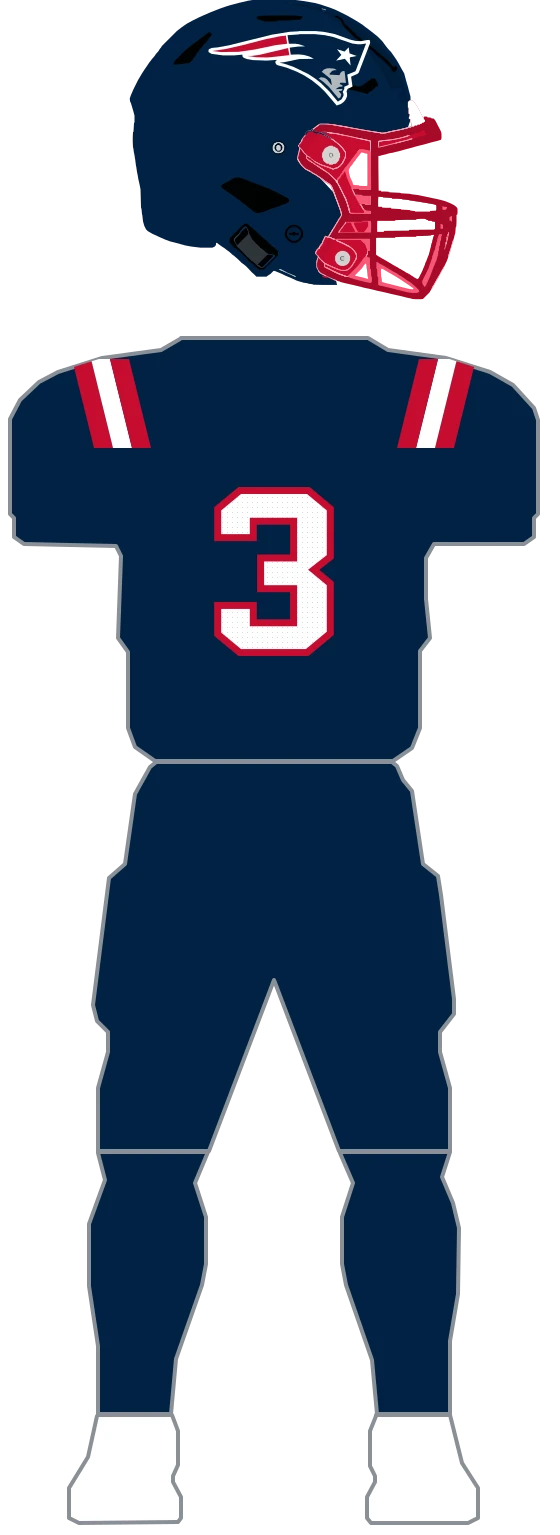
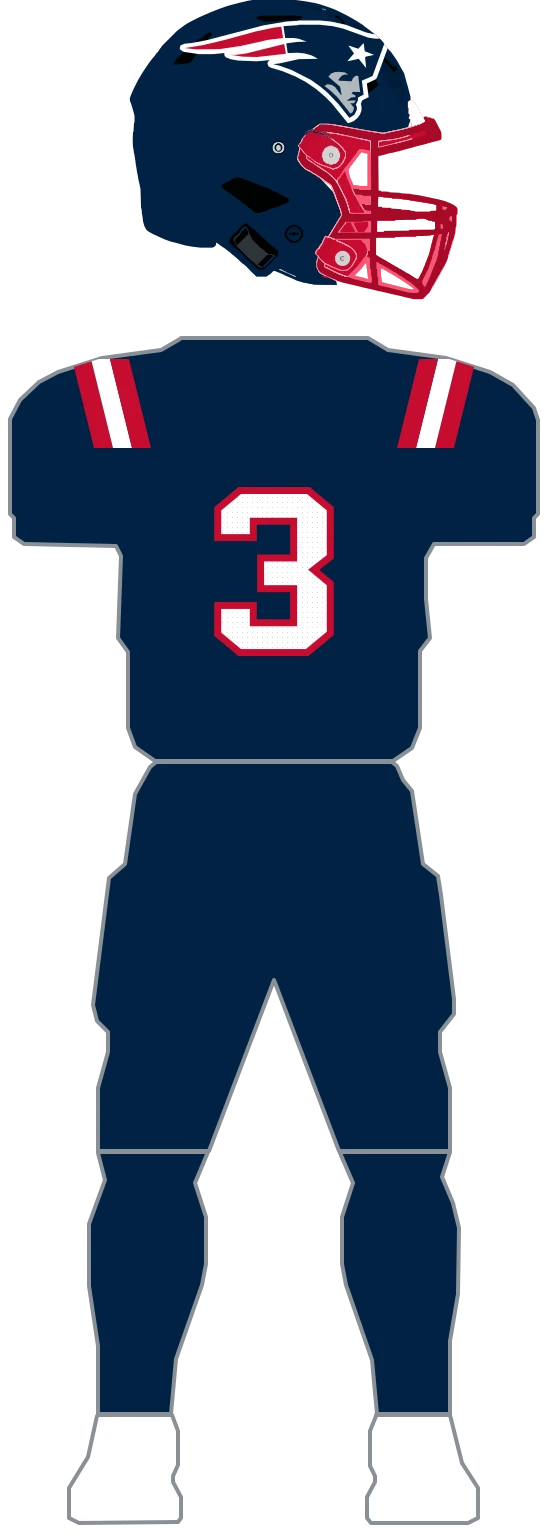
fix(uniforms): correct Patriots helmet placement

Changed region(s): [[0.3339, 0.0, 0.6982, 0.0919]]

diff --git a/lib/uniforms/teams/patriots.ts b/lib/uniforms/teams/patriots.ts
@@ -56,12 +56,12 @@ export const PATRIOTS_BANDS_RIGHT = [
 // measuring. That matters for the predicates — the navy samples (3,18,51), so a blue-channel
 // threshold tuned on the PNG sheets (b > 60) misses it entirely and the face comes back empty.
 export const PATRIOTS_DECAL_KEYLINE_PATH =
-  'M477.3,130.1 L509.9,130.1 L526.3,131.6 L549.7,136.3 L579.6,147.2 L590.5,149.8 L601.3,150.3 L616.0,147.7 L619.3,148.8 L619.8,153.9 L597.0,213.1 L595.3,215.2 L581.7,221.4 L584.5,241.1 L574.7,245.8 L572.5,250.9 L573.6,254.6 L573.6,260.3 L571.4,266.0 L567.6,271.2 L561.6,275.8 L552.9,279.0 L528.4,250.4 L518.1,240.6 L504.0,229.2 L488.7,219.3 L473.5,211.5 L452.3,203.2 L435.4,198.6 L431.6,196.5 L430.0,192.3 L431.1,189.7 L433.3,188.2 L432.7,187.7 L413.1,189.2 L385.4,188.2 L373.4,186.1 L366.9,183.5 L364.7,181.4 L364.2,177.3 L347.3,178.8 L325.5,178.8 L302.7,175.7 L297.3,172.6 L296.2,170.5 L297.3,166.4 L303.2,163.8 L314.7,162.8 L337.5,158.6 L423.5,137.3 L458.8,131.6 L476.8,130.6 Z';
+  'M476.3,108.9 L519.1,108.9 L540.5,111.0 L571.2,117.5 L610.4,132.5 L624.6,136.1 L638.9,136.8 L658.2,133.2 L662.4,134.7 L663.1,141.8 L633.2,223.5 L631.1,226.4 L613.2,235.0 L616.8,262.2 L604.0,268.7 L601.1,275.9 L602.5,280.9 L602.5,288.8 L599.7,296.6 L594.7,303.8 L586.8,310.3 L575.4,314.6 L543.3,275.1 L529.8,261.5 L511.3,245.8 L491.3,232.1 L471.3,221.4 L443.5,209.9 L421.4,203.5 L416.4,200.6 L414.3,194.9 L415.7,191.3 L418.6,189.1 L417.8,188.4 L392.2,190.6 L355.8,189.1 L340.1,186.3 L331.6,182.7 L328.7,179.8 L328.0,174.1 L305.9,176.2 L277.4,176.2 L247.4,171.9 L240.3,167.6 L238.9,164.8 L240.3,159.0 L248.1,155.5 L263.1,154.0 L293.0,148.3 L405.7,118.9 L452.1,111.0 L475.6,109.6 Z';
 export const PATRIOTS_DECAL_FACE_PATH =
-  'M477.9,136.3 L509.4,136.3 L529.5,138.4 L545.8,142.0 L583.9,155.0 L594.8,156.5 L601.9,156.5 L611.7,155.0 L590.5,210.5 L574.1,217.2 L576.9,237.5 L568.1,241.6 L568.1,245.8 L564.9,252.0 L566.5,255.6 L566.5,259.2 L562.7,266.5 L555.1,271.2 L538.2,250.9 L521.4,234.3 L511.0,226.0 L496.3,216.2 L466.4,201.7 L447.9,195.4 L438.7,193.4 L447.9,192.3 L477.9,186.1 L507.2,185.6 L498.0,180.9 L486.6,177.8 L476.2,176.8 L461.0,177.3 L458.8,163.3 L475.1,161.2 L489.8,160.7 L477.3,156.5 L470.2,155.5 L457.2,155.5 L454.5,138.4 L477.3,136.8 Z';
+  'M477.0,117.5 L518.4,117.5 L544.8,120.3 L566.2,125.4 L616.1,143.3 L630.3,145.4 L639.6,145.4 L652.5,143.3 L624.6,220.0 L603.2,229.3 L606.8,257.2 L595.4,263.0 L595.4,268.7 L591.1,277.3 L593.3,282.3 L593.3,287.3 L588.3,297.4 L578.3,303.8 L556.2,275.9 L534.1,252.9 L520.5,241.5 L501.3,227.8 L462.1,207.8 L437.8,199.2 L425.7,196.3 L437.8,194.9 L477.0,186.3 L515.5,185.6 L503.4,179.1 L488.4,174.8 L474.9,173.4 L454.9,174.1 L452.1,154.7 L473.5,151.9 L492.7,151.2 L476.3,145.4 L467.0,144.0 L449.9,144.0 L446.4,120.3 L476.3,118.2 Z';
 export const PATRIOTS_DECAL_STREAMERS_PATH =
-  'M450.1,138.9 L451.2,139.4 L453.9,155.5 L431.6,158.1 L389.7,166.9 L357.1,171.6 L321.7,172.1 L303.8,170.0 L331.5,165.9 L363.6,158.6 L411.5,146.2 L439.8,140.5 L449.6,139.4 Z M455.6,163.8 L458.3,178.3 L414.2,183.0 L391.9,182.5 L373.4,179.9 L382.1,179.9 L397.9,177.8 L455.0,164.3 Z';
+  'M440.7,121.1 L442.1,121.8 L445.7,144.0 L416.4,147.6 L361.5,159.8 L318.7,166.2 L272.4,166.9 L248.8,164.1 L285.2,158.3 L327.3,148.3 L390.0,131.1 L427.1,123.2 L439.9,121.8 Z M447.8,155.5 L451.4,175.5 L393.6,182.0 L364.4,181.3 L340.1,177.7 L351.5,177.7 L372.2,174.8 L447.1,156.2 Z';
 export const PATRIOTS_DECAL_SILVER_PATH =
-  'M537.1,204.3 L548.0,205.3 L553.5,208.4 L548.0,208.4 L543.7,210.0 L538.8,215.2 L538.8,217.2 L558.4,218.3 L560.5,213.6 L563.3,211.0 L566.0,210.0 L568.7,210.5 L571.4,233.8 L560.5,233.3 L558.4,235.9 L564.3,238.5 L564.3,241.1 L557.8,241.6 L550.7,246.3 L564.9,245.8 L562.2,249.9 L556.7,249.9 L562.2,256.7 L560.5,262.4 L556.7,265.0 L536.6,241.1 L526.3,231.8 L517.0,225.0 L521.4,222.4 L528.4,223.5 L533.3,226.6 L541.5,236.9 L542.6,238.0 L543.1,237.5 L541.0,226.0 L523.0,211.5 L527.4,206.9 L533.3,204.8 L536.6,204.8 Z';
+  'M554.8,211.4 L569.0,212.8 L576.1,217.1 L569.0,217.1 L563.3,219.2 L556.9,226.4 L556.9,229.3 L582.6,230.7 L585.4,224.3 L589.0,220.7 L592.6,219.2 L596.1,220.0 L599.7,252.2 L585.4,251.5 L582.6,255.1 L590.4,258.7 L590.4,262.2 L581.9,263.0 L572.6,269.4 L591.1,268.7 L587.6,274.4 L580.4,274.4 L587.6,283.7 L585.4,291.6 L580.4,295.2 L554.0,262.2 L540.5,249.3 L528.4,240.0 L534.1,236.4 L543.3,237.9 L549.8,242.2 L560.5,256.5 L561.9,257.9 L562.6,257.2 L559.7,241.5 L536.2,221.4 L541.9,214.9 L549.8,212.1 L554.0,212.1 Z';
 export const PATRIOTS_DECAL_STAR_PATH =
-  'M576.9,162.8 L578.5,174.7 L592.6,179.9 L580.1,182.5 L579.0,183.5 L580.7,199.1 L569.2,185.6 L551.8,189.2 L562.2,177.8 L553.5,166.4 L568.7,171.1 L576.3,163.3 Z';
+  'M606.8,154.0 L609.0,170.5 L627.5,177.7 L611.1,181.3 L609.7,182.7 L611.8,204.2 L596.8,185.6 L574.0,190.6 L587.6,174.8 L576.1,159.0 L596.1,165.5 L606.1,154.7 Z';

diff --git a/scripts/uniform-draw/patriots_mark.py b/scripts/uniform-draw/patriots_mark.py
@@ -9,7 +9,7 @@ The SVG is used only as the linework source and is never committed. The GUD 2025
 used only for placement measurements: on the home helmet the visible mark spans approximately
 x=37..159 and y=285..399, or 11.5% left, 70.1% wide, 14.6% top, and 20.2% high against the
 helmet shell. Transferred to the raw mannequin shell, that is the retained placement box
-``Box(294.0, 128.0, 328.0, 152.0)``; its 2.16 aspect intentionally follows the shell's
+    ``Box(236.0, 106.0, 430.0, 210.0)``; its 2.05 aspect intentionally follows the shell's
 foreshortened side view rather than squeezing the flat SVG to its own 2.03 aspect.
 
 TOPOLOGY, measured before tracing from a black-backed raster of the SVG: one 8-connected navy
@@ -42,7 +42,7 @@ from drawkit import Box, components, crop_to_art, main, mask, trace  # noqa: E40
 
 REF = Path.home() / 'Documents/GitHubProjects/nfl-uniform-refs/patriots/patriots-mark.svg'
 MODULE = Path(__file__).resolve().parents[2] / 'lib' / 'uniforms' / 'teams' / 'patriots.ts'
-BOX = Box(294.0, 128.0, 328.0, 152.0)
+BOX = Box(236.0, 106.0, 430.0, 210.0)
 MIN_REGION = 100
 EPS = 1.2
 
